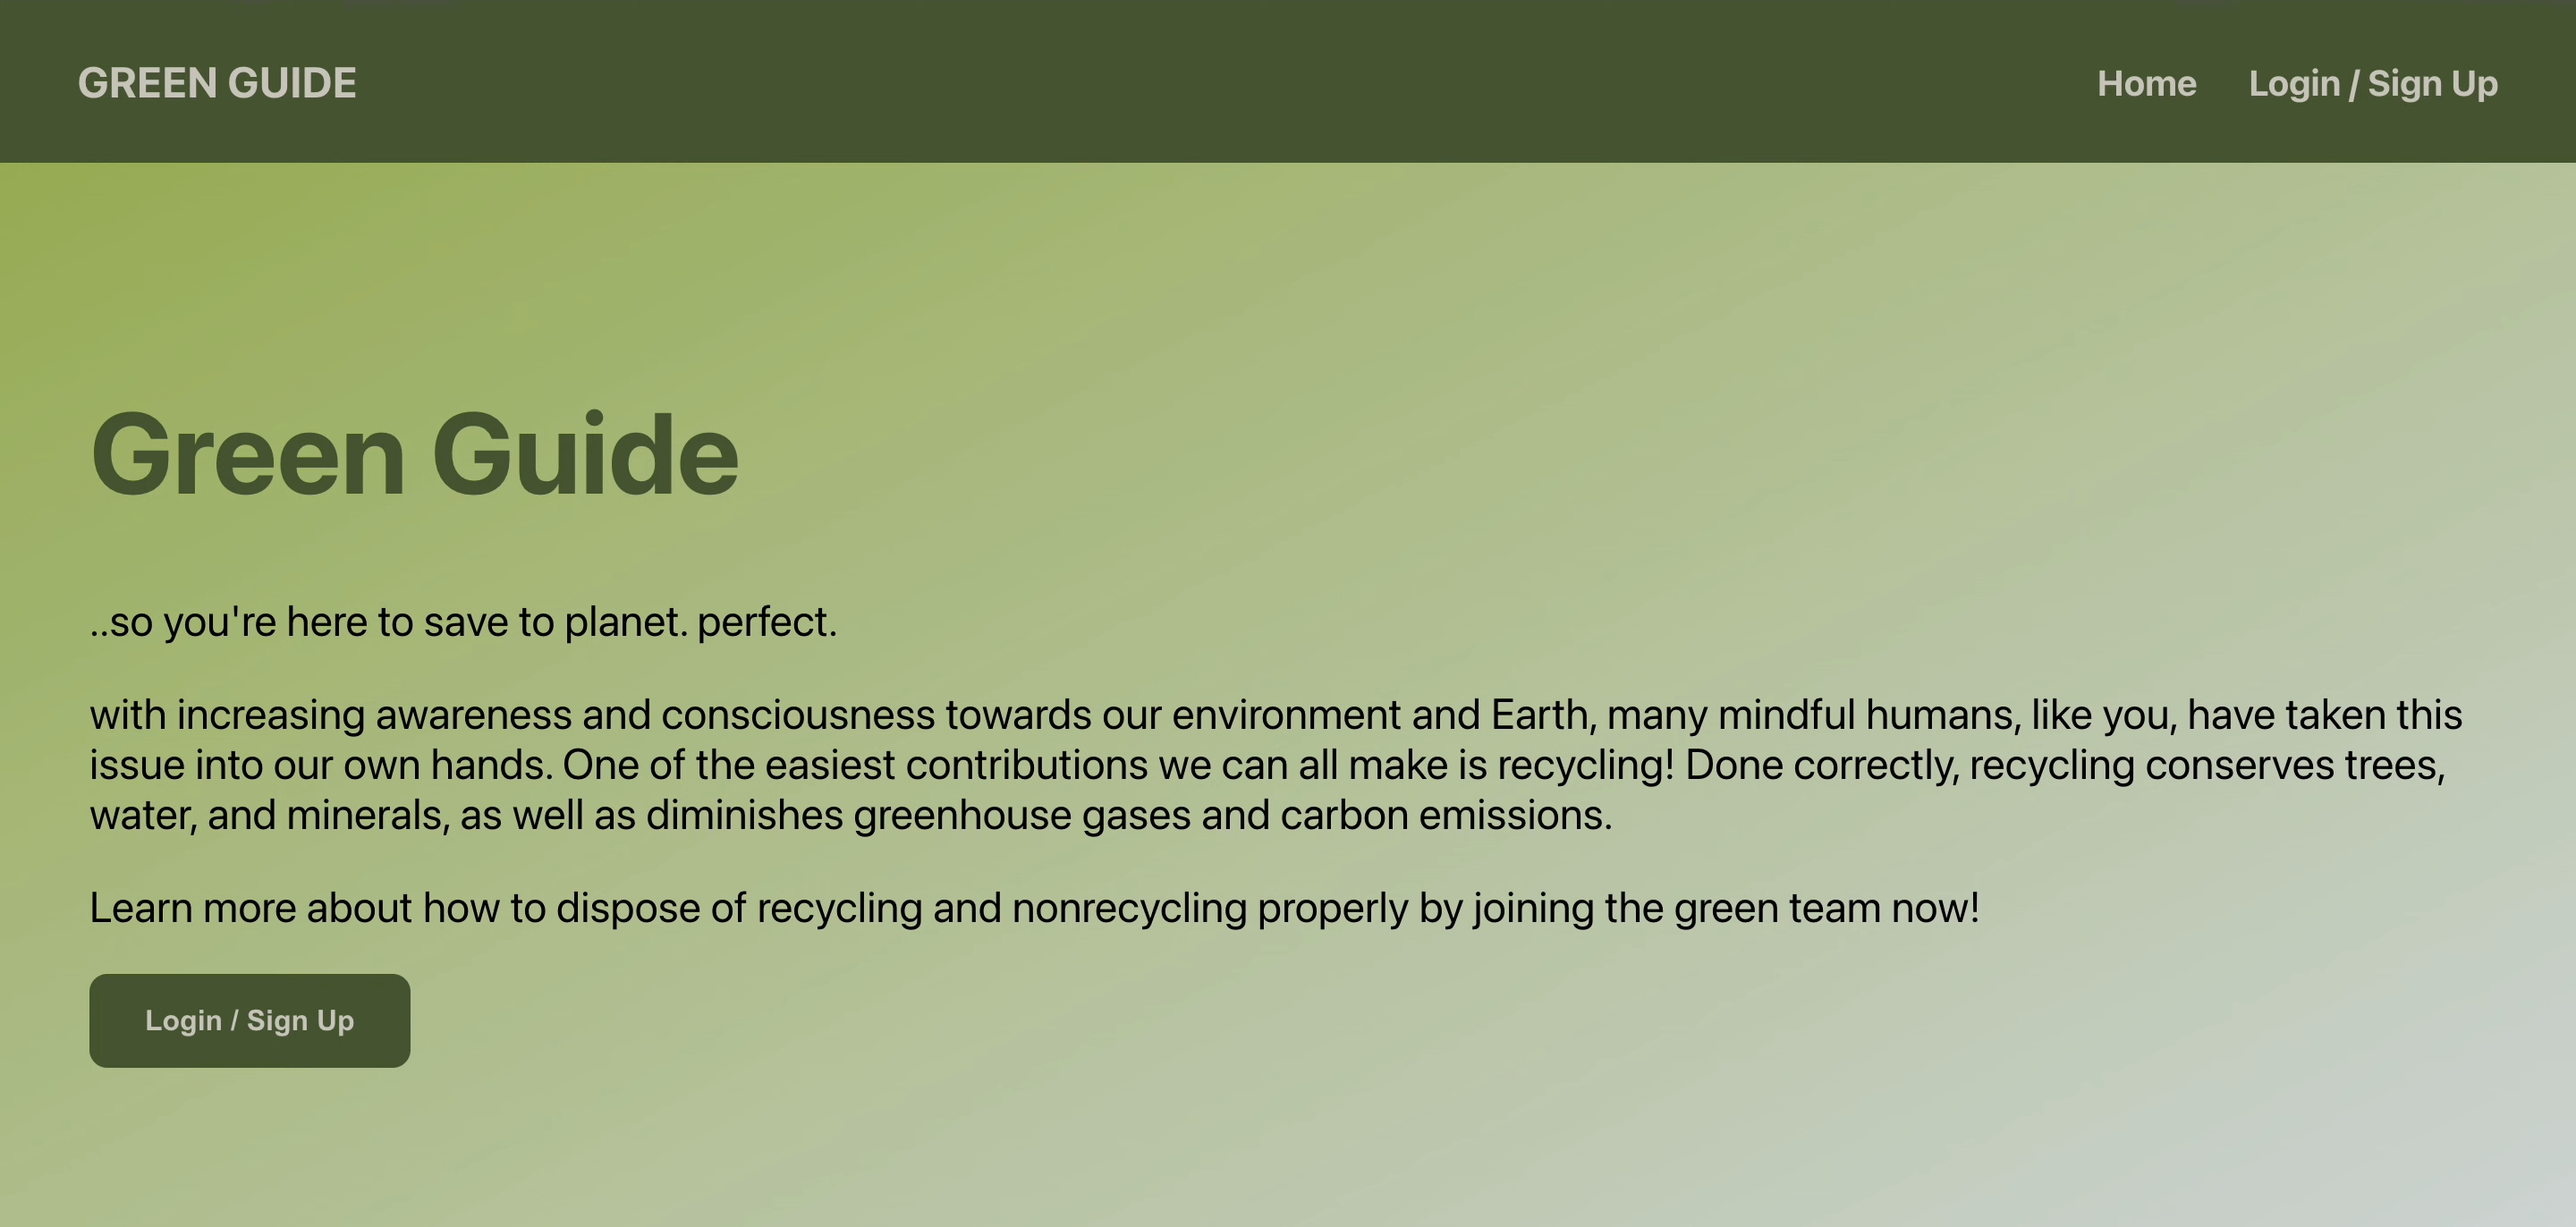
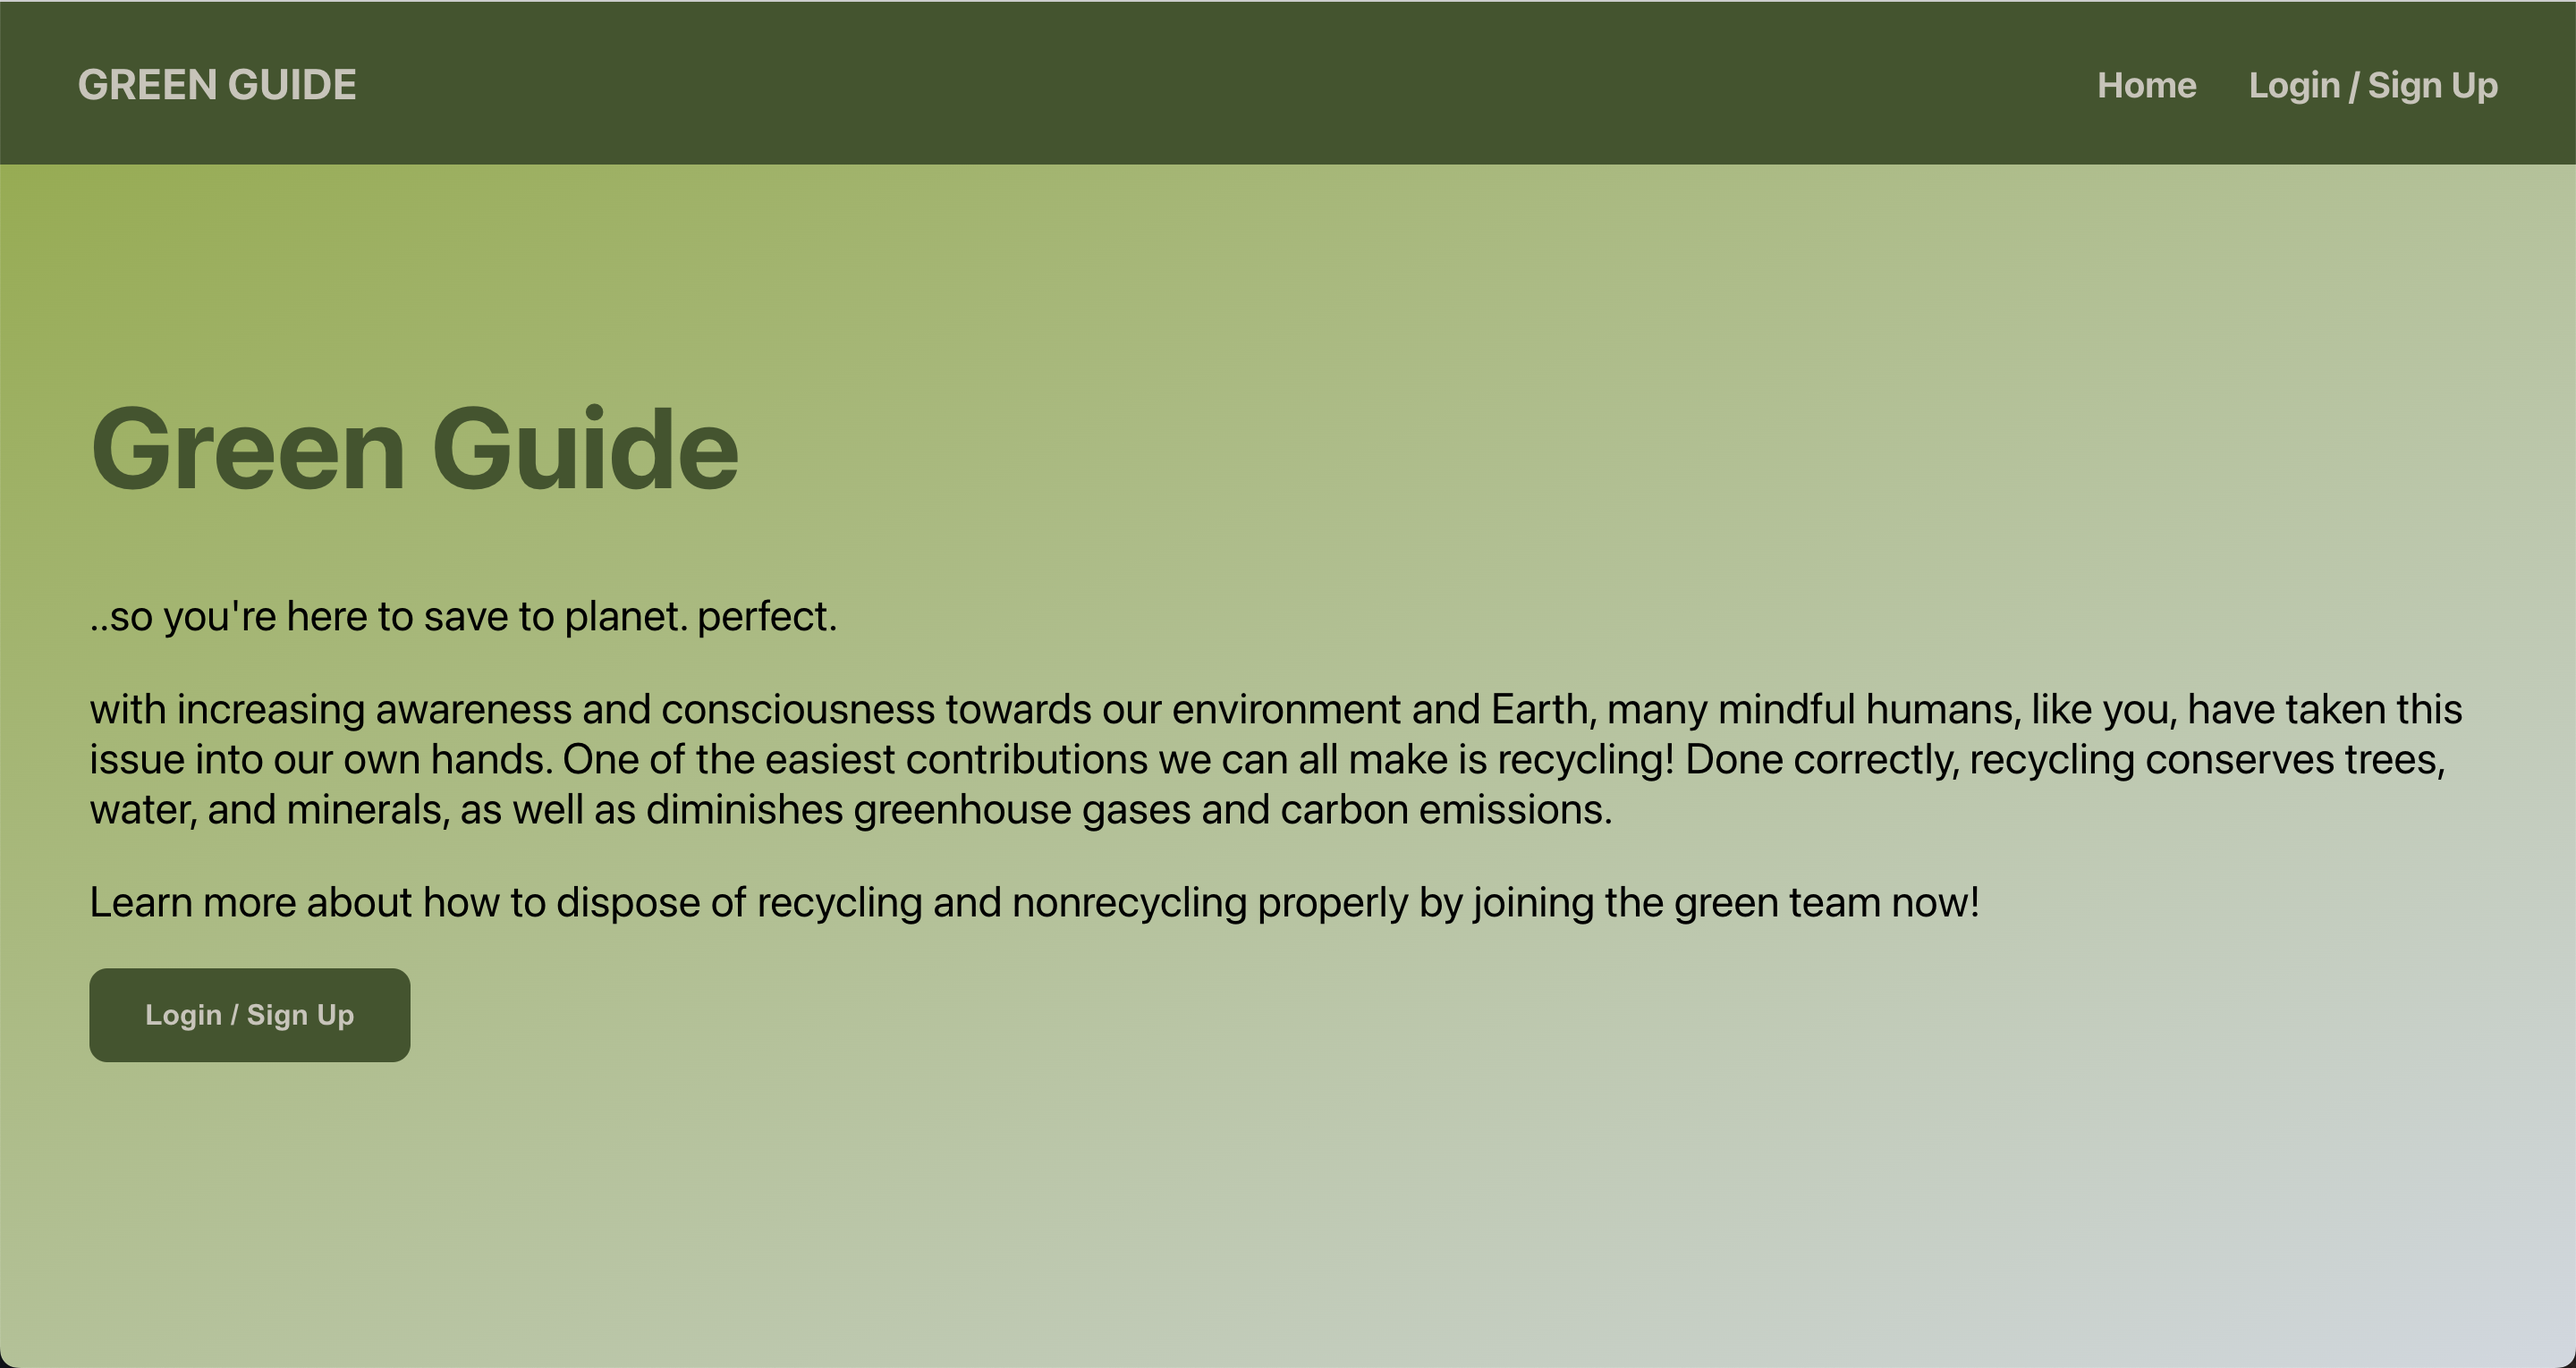
finished green guide project page

diff --git a/app/projects/green-guide/page.tsx b/app/projects/green-guide/page.tsx
@@ -19,16 +19,39 @@ export default function GreenGuide() {
 							<p>
 								<b>Background: </b>
 								I collaborated with 3 of my friends to build Green Guide for LA Hacks
-								2023. We chose the Green House track, which was all about sustainability.
+								2023. We chose the Green House track, which was all about sustainability,
+								and built a web app designed to help people stay informed about what to
+								do with different types of waste.
 							</p>
 							<p>
 								<b>Project Details: </b>
-								?
+								Users will be able to access a few different resources and features
+								upon creating and/or signing into an account. There are flippable
+								double-sided cards on the home page that serve as a guide to waste
+								sorting and contain links to external resources. There is also a
+								recycling tracker to help users document their recycling habits and a
+								memory matching game for fun.
 							</p>
 							<p>
-								Backend
-								Data visualization tool
-								Code quality: linting, css vars, hard code
+								I acted as an engineering manager for this project, setting up the repo,
+								creating issues, and giving a mini React crash course to some of my
+								teammates who were new to React. I worked on some of the frontend and also
+								learned React context and Firebase for the authentication since none of us
+								knew how to do this before the hackathon. (Fun fact: I stayed up until 5am
+								to figure this out). My friends managed to build some incredible features
+								as I was working on the authentication, and in the end I was proud that
+								we were able to get our app working.
+							</p>
+							<p>
+								We didn't have that much time during the hackathon to build everything we
+								wanted to, especially since we also wanted to experience the UCLA life
+								(side note: UCLA dining halls are absolutely incredible). If we had more
+								time, we would've added a backend and a data visualization tool for the
+								recycling tracker. I would also try to improve the code quality, since we
+								were rushing to get everything done and didn't have time to do so at the
+								hackathon. For example, I would add linting, enforce consistent use of CSS
+								variables, and remove any hard coded values to have a more responsive web
+								design.
 							</p>
 
 							<br />

diff --git a/app/projects/portfolio-website/page.tsx b/app/projects/portfolio-website/page.tsx
@@ -14,7 +14,7 @@ export default function PortfolioWebsite() {
 						<div className={styles.content}>
 							<p>
 								This page is still in progress. Stay tuned :)
-								{/* CSS units, SSR, caching */}
+								{/* CSS units, SSR, caching, responsive web design */}
 							</p>
 						</div>
 					}

diff --git a/app/projects/green-guide/style.module.scss b/app/projects/green-guide/style.module.scss
@@ -49,7 +49,7 @@
     }
 
     .homeContainer {
-      aspect-ratio: 2880 / 1372;
+      aspect-ratio: 2880 / 1530;
     }
 
     .cardsContainer {
